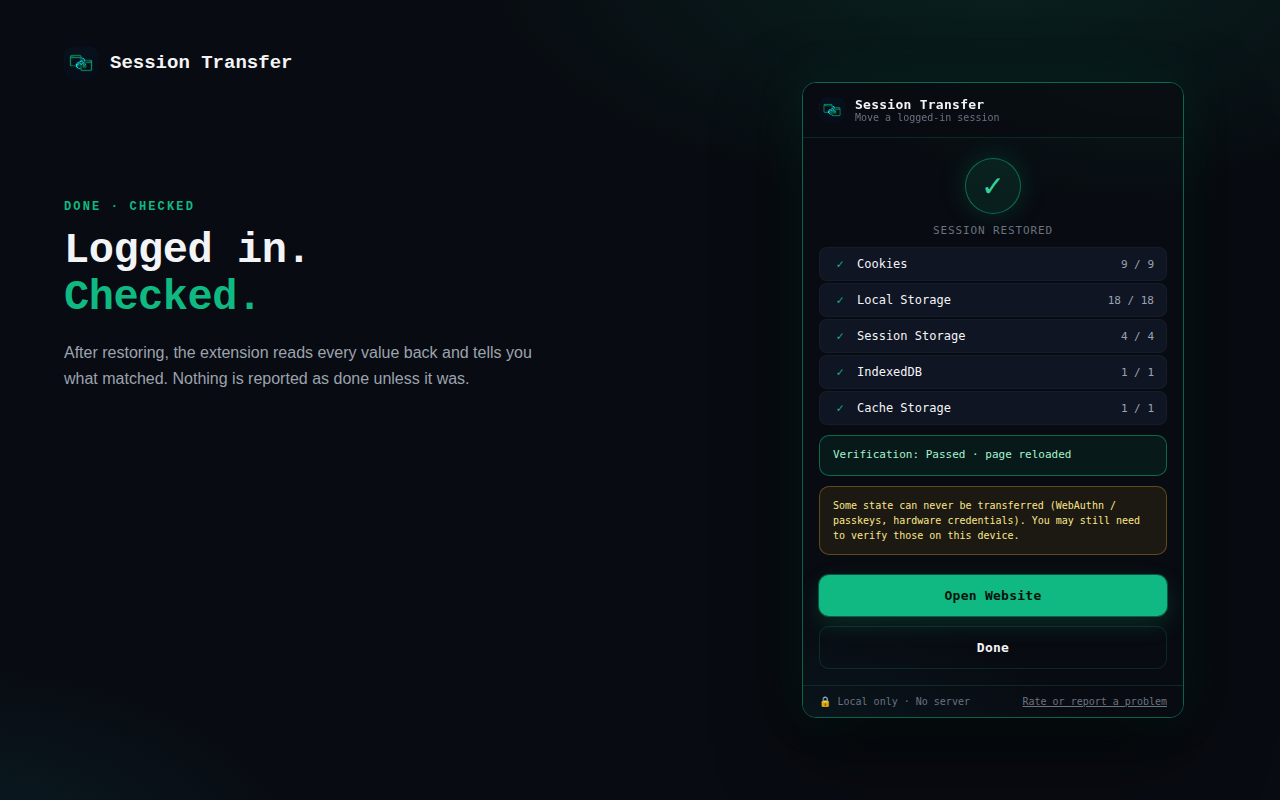
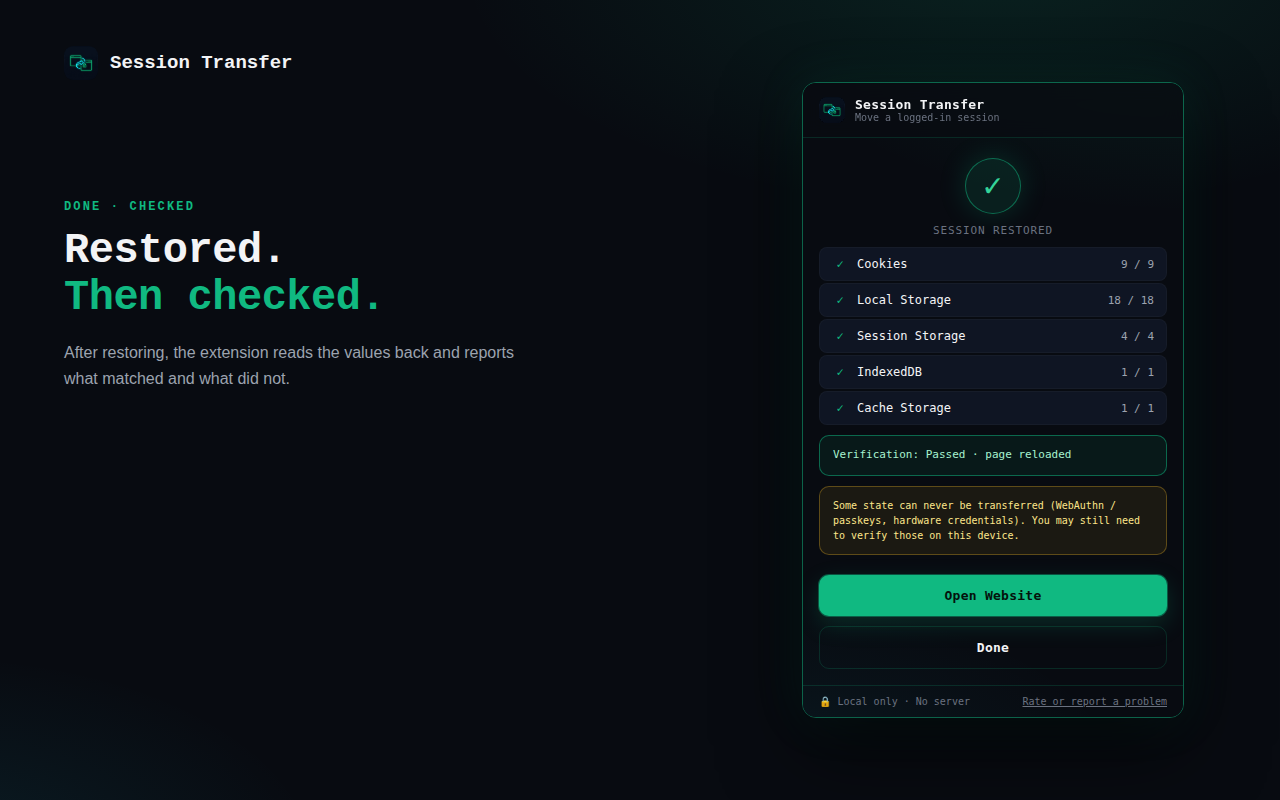
Review fixes: single Unreleased changelog section, read-only store-assets check job, softer restored caption
Claude-Session: https://claude.ai/code/session_01W6GHcQvQnWWHDyBtS9wv4M

Changed region(s): [[0.0312, 0.2812, 0.2812, 0.4062], [0.125, 0.4375, 0.4062, 0.5]]

diff --git a/extension/e2e/store-shots.spec.ts b/extension/e2e/store-shots.spec.ts
@@ -19,7 +19,7 @@ const SHOTS = {
   home: { eyebrow: 'STEP 1 · PICK A SITE', title: 'Open the site.<br>Press <em>Transfer</em>.', text: 'See what will move before anything leaves the browser: cookies, localStorage, sessionStorage, IndexedDB and Cache Storage.' },
   transfer: { eyebrow: 'STEP 2 · COPY THE PACKAGE', title: 'Copy it.<br>Lock it if you <em>want</em>.', text: 'Plain by default, so treat it like a password. Turn on "Encrypt with a transfer code" for AES-256-GCM. Packages older than 5 minutes are refused.' },
   receive: { eyebrow: 'STEP 3 · ON THE OTHER BROWSER', title: 'Paste it.<br>Check <em>what moves</em>.', text: 'A package can only be restored into its own website. You see the counts, then choose Replace, Merge or Cancel.' },
-  restored: { eyebrow: 'DONE · CHECKED', title: 'Logged in.<br><em>Checked.</em>', text: 'After restoring, the extension reads every value back and tells you what matched. Nothing is reported as done unless it was.' },
+  restored: { eyebrow: 'DONE · CHECKED', title: 'Restored.<br><em>Then checked.</em>', text: 'After restoring, the extension reads the values back and reports what matched and what did not.' },
 } as const;
 
 /** Serve the local fixture under a fixed https host, cookies included. */

diff --git a/extension/store-listing.md b/extension/store-listing.md
@@ -67,7 +67,7 @@ Reviewers will install and run the extension, so do this first:
 1. `screenshot-home.png` — "Open the site. Press Transfer."
 2. `screenshot-transfer.png` — "Copy it. Lock it if you want." (plain by default, optional encryption, 5-minute limit)
 3. `screenshot-receive.png` — "Paste it. Check what moves."
-4. `screenshot-restored.png` — "Logged in. Checked."
+4. `screenshot-restored.png` — "Restored. Then checked."
 
 The four screenshots are made from the real popup: `cd extension && npm run build && STORE_ASSETS=1 TZ=UTC npx playwright test e2e/store-shots.spec.ts`. Captions live in that spec. The two tiles are rendered from `store-assets/tiles.html` (instructions in its first lines).
 

diff --git a/CHANGELOG.md b/CHANGELOG.md
@@ -59,7 +59,10 @@ tag (release-platform stamps it into the built manifest), so the numbers below m
 - The destination backup before Replace (it stored its own decryption code and
   could not be restored). Backups left by 1.2.x are deleted on update.
 
-## [Unreleased]
+## [1.2.2 / 1.2.3]
+
+Superseded by 1.3.0: packages are plain by default and the setting is now "Encrypt with a transfer code". Kept as
+written at the time.
 
 ### Changed
 - **The transfer code is now optional and off by default.** Packages are still
